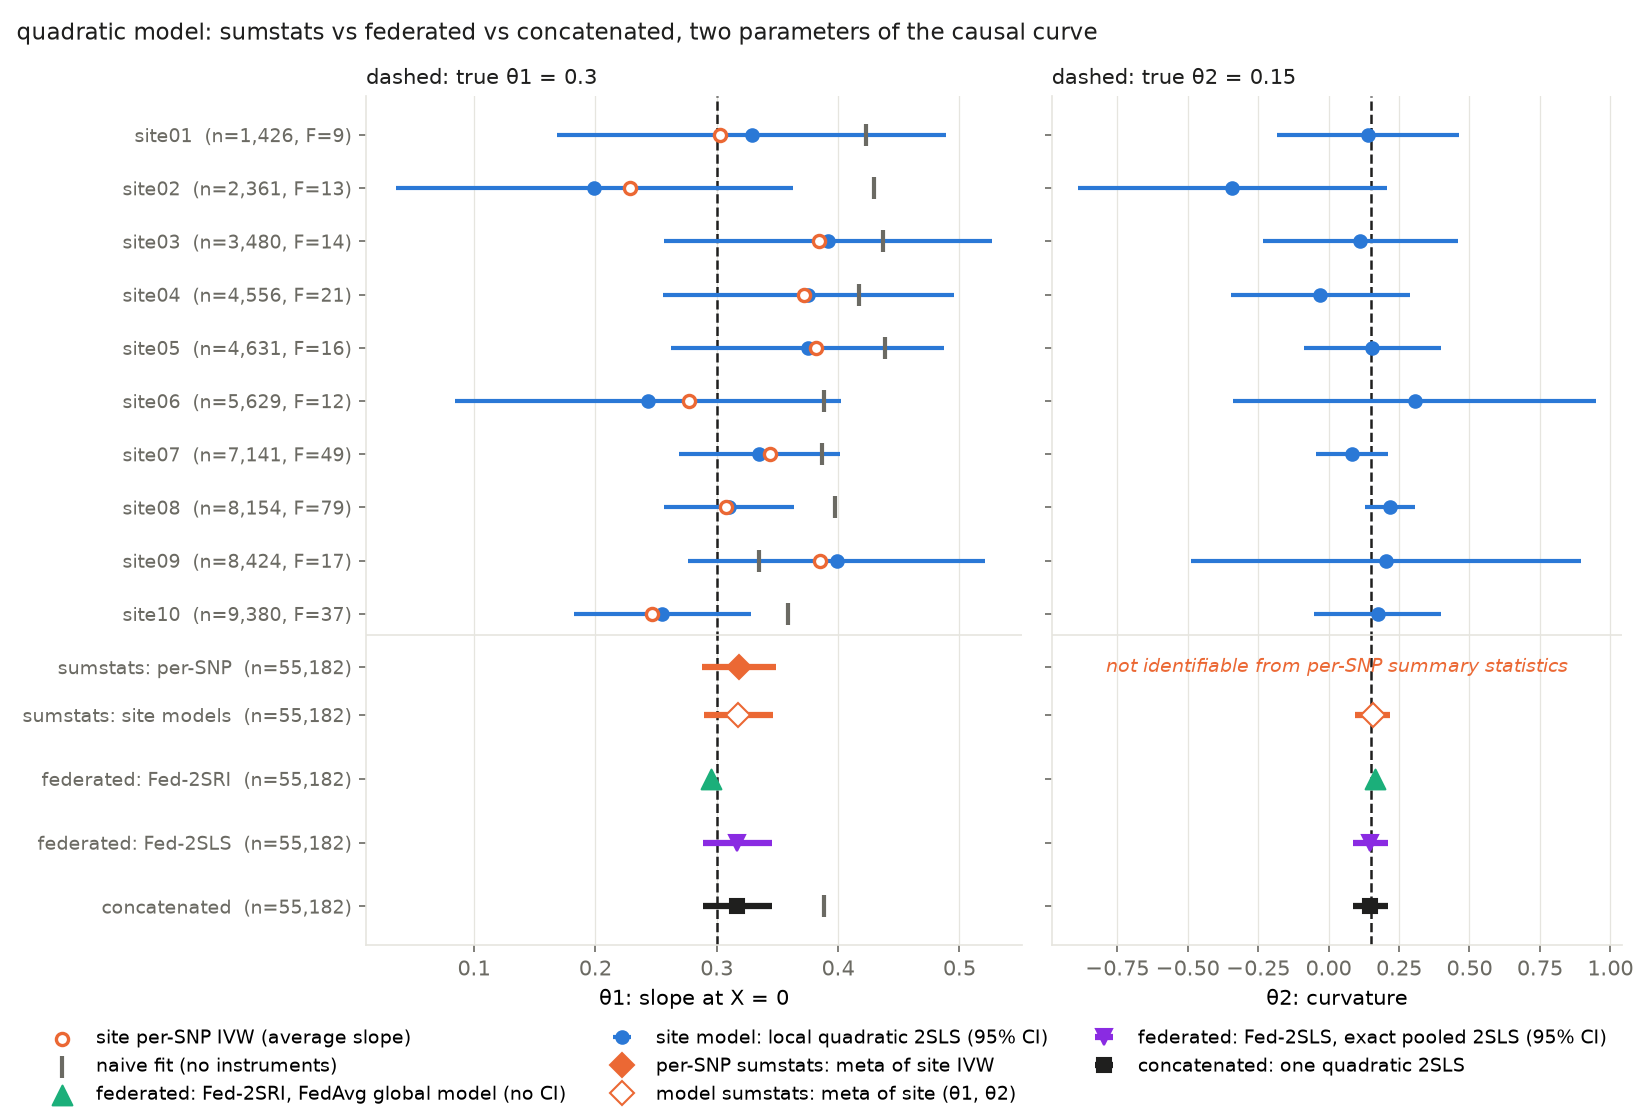
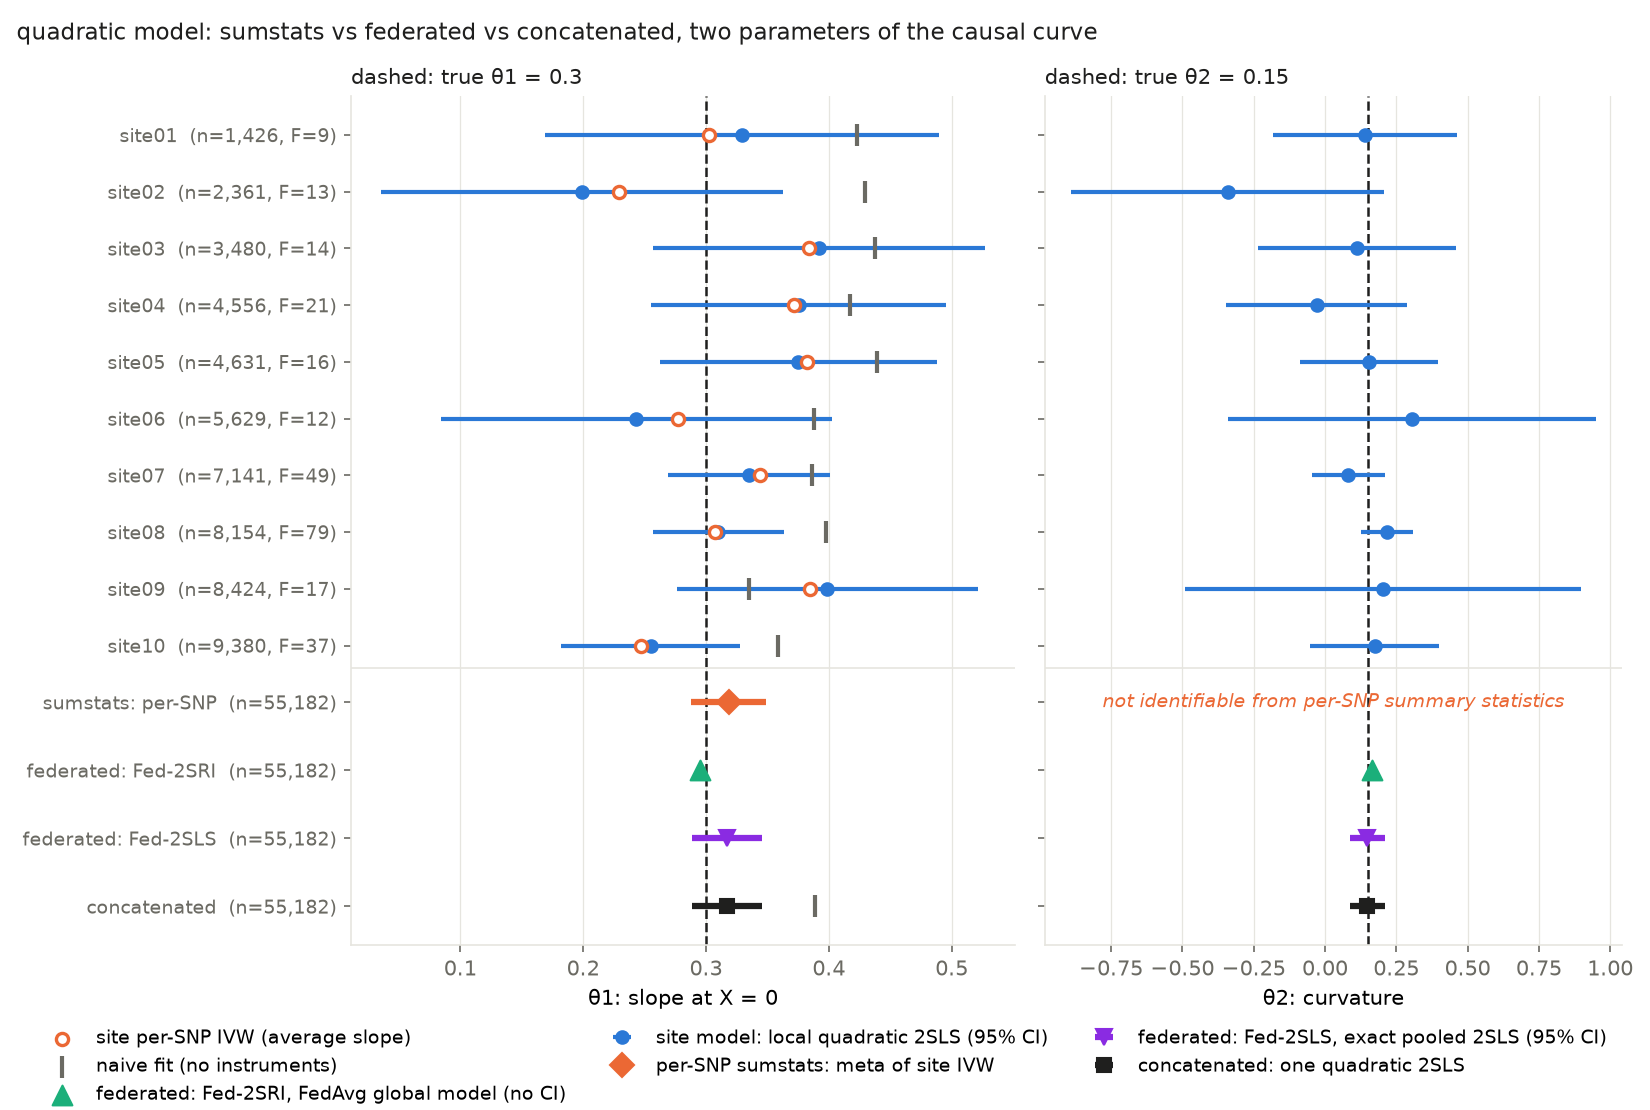
Drop the site-model meta-analysis row; per-SNP IVW is the one summary-statistics route
Fed-2SLS gives the pooled quadratic answer exactly, so meta-analysing the
sites' own quadratic fits was redundant. The curved forest keeps each
site's local quadratic fit as a per-site row; the family rows are
per-SNP sumstats, Fed-2SRI, Fed-2SLS and concatenated. The dashboard
drops the model-meta row and parser; docs updated.

Claude-Session: https://claude.ai/code/session_015NyuikE1DxS4koegP9jiqJ

diff --git a/data/scripts/federated_summary_mr.py b/data/scripts/federated_summary_mr.py
@@ -105,14 +105,6 @@ def quadratic_2sls(sites) -> tuple[np.ndarray, np.ndarray]:
     return coef[:2], cov[:2, :2]
 
 
-def multivariate_meta(thetas, covs) -> tuple[np.ndarray, np.ndarray]:
-    """Inverse-variance meta-analysis of vector estimates with their covariances."""
-    W = [np.linalg.inv(c) for c in covs]
-    cov = np.linalg.inv(sum(W))
-    theta = cov @ sum(w @ t for w, t in zip(W, thetas))
-    return theta, cov
-
-
 def pooled_2sls(sites: list[tuple[np.ndarray, np.ndarray, np.ndarray]]) -> tuple[float, float, float]:
     """Concatenate all sites and fit one 2SLS with site-specific first stages and site intercepts."""
     xhat, X, Y, site_idx = _first_stage(sites)
@@ -154,17 +146,14 @@ def site_summary(csv: Path, sumstats_dir: Path, survival: bool, curved: bool = F
     row = {"site": site, "n": df.height, "avg_slope": truth["avg_slope"],
            "ivw": est, "ivw_se": se, "naive_ols": naive, "mean_F": f_stat}
     if curved:
-        # site-level model summary: the site fits the quadratic 2SLS on its own data and shares
-        # the two coefficients and their covariance, never individual rows
+        # the site's own quadratic 2SLS, shown per site for heterogeneity (not meta-analysed)
         th, cov = quadratic_2sls([site_summary.raw[-1]])
-        site_summary.models.append((th, cov))
         row.update({"q_theta1": float(th[0]), "q_theta1_se": float(np.sqrt(cov[0, 0])),
                     "q_theta2": float(th[1]), "q_theta2_se": float(np.sqrt(cov[1, 1]))})
     return row
 
 
 site_summary.raw = []
-site_summary.models = []
 
 
 def _family_rows(ax, y_sites, rows_y, res, n_all, families) -> None:
@@ -286,12 +275,12 @@ def _style(ax) -> None:
     ax.set_axisbelow(True)
 
 
-def forest_curved(res, meta, meta_se, model_meta, model_cov, pooled_q, pooled_cov, pooled_naive, fl,
+def forest_curved(res, meta, meta_se, pooled_q, pooled_cov, pooled_naive, fl,
                   avg_slope_target, shape, theta1, theta2, out: Path, fed2sls=None) -> None:
-    """Two columns, one per parameter of the quadratic basis. Rows: sites, then the three families."""
+    """Two columns, one per parameter of the quadratic basis. Rows: sites, then the families."""
     sites = res["site"].to_list()
     y = np.arange(len(sites))[::-1]
-    rows_y = {"sumstats": -1, "models": -1.9, "federated": -3.1, "fed2sls": -4.3, "pooled": -5.5}
+    rows_y = {"sumstats": -1, "federated": -2.2, "fed2sls": -3.4, "pooled": -4.6}
     fig, axes = plt.subplots(1, 2, figsize=(11, 7.4), dpi=150, sharey=True,
                              gridspec_kw={"width_ratios": [1.15, 1]})
     ax1, ax2 = axes
@@ -308,9 +297,6 @@ def forest_curved(res, meta, meta_se, model_meta, model_cov, pooled_q, pooled_co
     ax1.scatter(res["naive_ols"], y, marker="|", s=120, color=MUTED, linewidths=2, zorder=3, label="naive fit (no instruments)")
     ax1.errorbar([meta], [rows_y["sumstats"]], xerr=[1.96 * meta_se], fmt="D", color=SUMSTATS_COLOR, ms=8,
                  ecolor=SUMSTATS_COLOR, elinewidth=3, label="per-SNP sumstats: meta of site IVW")
-    ax1.errorbar([model_meta[0]], [rows_y["models"]], xerr=[1.96 * np.sqrt(model_cov[0, 0])], fmt="D",
-                 mfc="white", color=SUMSTATS_COLOR, ms=8, ecolor=SUMSTATS_COLOR, elinewidth=3,
-                 label="model sumstats: meta of site (θ1, θ2)")
     if "2sri" in fl:
         ax1.scatter([fl["2sri"][0]], [rows_y["federated"]], marker="^", s=90, color=FED_COLOR, zorder=4,
                     label="federated: Fed-2SRI, FedAvg global model (no CI)")
@@ -344,8 +330,6 @@ def forest_curved(res, meta, meta_se, model_meta, model_cov, pooled_q, pooled_co
                       loc="left", fontsize=10, color=INK)
     ax2.errorbar(res["q_theta2"], y, xerr=1.96 * res["q_theta2_se"], fmt="o", color=SITE_COLOR, ms=6,
                  ecolor=SITE_COLOR, elinewidth=2)
-    ax2.errorbar([model_meta[1]], [rows_y["models"]], xerr=[1.96 * np.sqrt(model_cov[1, 1])], fmt="D",
-                 mfc="white", color=SUMSTATS_COLOR, ms=8, ecolor=SUMSTATS_COLOR, elinewidth=3)
     ax2.errorbar([pooled_q[1]], [rows_y["pooled"]], xerr=[1.96 * np.sqrt(pooled_cov[1, 1])], fmt="s", color=INK,
                  ms=7, ecolor=INK, elinewidth=3)
     ax2.text(0.5, rows_y["sumstats"], "not identifiable from per-SNP summary statistics", transform=ax2.get_yaxis_transform(),
@@ -355,7 +339,7 @@ def forest_curved(res, meta, meta_se, model_meta, model_cov, pooled_q, pooled_co
     for ax in axes:
         ax.axhline(-0.4, color=GRID, linewidth=0.8)
         _style(ax)
-    _family_rows(ax1, y, rows_y, res, n_all, {"sumstats": "sumstats: per-SNP", "models": "sumstats: site models",
+    _family_rows(ax1, y, rows_y, res, n_all, {"sumstats": "sumstats: per-SNP",
                                               "federated": "federated: Fed-2SRI", "fed2sls": "federated: Fed-2SLS",
                                               "pooled": "concatenated"})
     fig.suptitle(f"{shape} model: sumstats vs federated vs concatenated, two parameters of the causal curve",
@@ -381,7 +365,7 @@ def main() -> None:
     manifest = json.loads((a.sites / "manifest.json").read_text())
     sumstats_dir = a.sites / "sumstats"
     sumstats_dir.mkdir(exist_ok=True)
-    site_summary.raw, site_summary.models = [], []
+    site_summary.raw = []
     curved = a.shape in ("quadratic", "threshold")
     rows = [site_summary(csv, sumstats_dir, a.shape == "cox", curved) for csv in sorted(a.sites.glob("site*.csv"))]
     res = pl.DataFrame(rows)
@@ -416,13 +400,10 @@ def main() -> None:
     if "2sri" not in fl:
         print(f"no NVFlare 2SRI run at {a.fl_results / '2sri' / a.sites.name}")
     if curved:
-        model_meta, model_cov = multivariate_meta(*zip(*site_summary.models))
         pooled_q, pooled_cov = quadratic_2sls(site_summary.raw)
-        forest_curved(res, meta, meta_se, model_meta, model_cov, pooled_q, pooled_cov, pooled_naive, fl,
+        forest_curved(res, meta, meta_se, pooled_q, pooled_cov, pooled_naive, fl,
                       target, a.shape, manifest["theta1"], manifest["theta2"], png_out, fed2sls)
-        mse = np.sqrt(np.diag(model_cov)); pse = np.sqrt(np.diag(pooled_cov))
-        print(f"model sumstats (meta of site quadratic fits): theta1 {model_meta[0]:.3f} ({mse[0]:.3f})  "
-              f"theta2 {model_meta[1]:.3f} ({mse[1]:.3f})")
+        pse = np.sqrt(np.diag(pooled_cov))
         print(f"concatenated quadratic 2SLS:                  theta1 {pooled_q[0]:.3f} ({pse[0]:.3f})  "
               f"theta2 {pooled_q[1]:.3f} ({pse[1]:.3f})")
     else:

diff --git a/dashboard/app.py b/dashboard/app.py
@@ -282,14 +282,10 @@ def headline_metrics(summary: dict) -> None:
                                "across sites", "neutral"))
     stat_row(cards)
 
-    if {"model_sumstats", "pooled_quadratic"} & summary.keys():
-        rows = []
-        for key, name in (("model_sumstats", "Summary statistics (meta of site quadratic fits)"),
-                          ("pooled_quadratic", "Concatenated quadratic 2SLS")):
-            if key in summary:
-                t1, t1se, t2, t2se = summary[key]
-                rows.append({"estimator": name, "θ1": t1, "θ1 se": t1se, "θ2": t2, "θ2 se": t2se})
-        st.dataframe(pl.DataFrame(rows), width="stretch", hide_index=True)
+    if "pooled_quadratic" in summary:
+        t1, t1se, t2, t2se = summary["pooled_quadratic"]
+        st.dataframe(pl.DataFrame([{"estimator": "Concatenated quadratic 2SLS", "θ1": t1, "θ1 se": t1se,
+                                    "θ2": t2, "θ2 se": t2se}]), width="stretch", hide_index=True)
 
     if "target_label" in summary:
         st.caption(f"Target: {summary['target_label']}")
@@ -315,9 +311,6 @@ def comparison_table(summary: dict, federated: dict, params: dict) -> pl.DataFra
         est, se = summary["meta_ivw"]
         rows.append(row("Summary-stat IVW meta", "per-SNP summary statistics", est,
                         None, se))
-    if curved and "model_sumstats" in summary:
-        t1, se1, t2, _ = summary["model_sumstats"]
-        rows.append(row("Summary-stat model meta", "per-site quadratic fits", t1, t2, se1))
     if curved and "pooled_quadratic" in summary:
         t1, se1, t2, _ = summary["pooled_quadratic"]
         rows.append(row("Concatenated quadratic 2SLS", "pooled individual rows", t1, t2, se1))

diff --git a/dashboard/runner.py b/dashboard/runner.py
@@ -435,7 +435,6 @@ _PATTERNS = {
     # `federated Fed-2SLS: theta1  se1 [ theta2  se2]   (exact, with CI)`; the pair is absent for the linear basis
     "fed2sls": rf"federated Fed-2SLS:\s+{_NUM}\s+{_NUM}(?:\s+{_NUM}\s+{_NUM})?\s+\(exact",
     "heterogeneity_q": rf"heterogeneity Q\s+{_NUM}",
-    "model_sumstats": rf"model sumstats[^:]*:\s*theta1\s+{_NUM}\s+\({_NUM}\)\s+theta2\s+{_NUM}\s+\({_NUM}\)",
     "pooled_quadratic": rf"concatenated quadratic 2SLS:\s+theta1\s+{_NUM}\s+\({_NUM}\)\s+theta2\s+{_NUM}\s+\({_NUM}\)",
 }
 

diff --git a/data/docs/federated-summary-mr.md b/data/docs/federated-summary-mr.md
@@ -108,7 +108,7 @@ site rows, coloured by family:
 
 | family | row(s) | what leaves each site | estimate |
 |---|---|---|---|
-| sumstats (orange) | `sumstats` (per-SNP), and `sumstats: site models` for curved shapes | per-SNP GWAS effects; or a fitted model's coefficients and covariance | inverse-variance meta-analysis, with CI |
+| sumstats (orange) | `sumstats: per-SNP` | per-SNP GWAS effects | inverse-variance meta-analysis, with CI |
 | federated: Fed-2SRI (green) | `federated: Fed-2SRI` | model weights each round, via NVFlare FedAvg | the last-round global 2SRI model from `../federated_learning/results/2sri/<dataset>/curves.csv`, summarised into the plot's parameters by least squares on the curve over -2 <= X <= 2; no analytic CI |
 | federated: Fed-2SLS (violet) | `federated: Fed-2SLS` | centred cross-product matrices, one round (plus one for the robust SE) | exact federated 2SLS from `results/fed2sls.<dataset>.csv` (`scripts/federated_exact_mr.py`), identical to the concatenated row, with CI; see `federated-exact-mr.md` |
 | concatenated (black) | `concatenated` | individual rows | one 2SLS (or stratified 2SPS Cox), with CI |
@@ -147,33 +147,24 @@ not replace the Fed-2SRI curve; the two rows answer different questions.
 ## Curved models: two parameters
 
 For `quadratic` and `threshold` the forest plot has two columns, `theta1`
-(slope at X = 0) and `theta2` (curvature in a quadratic basis), and a third
-combined row. The three federation levels it compares:
+(slope at X = 0) and `theta2` (curvature in a quadratic basis). The
+federation levels it compares:
 
 | level | what leaves each site | can estimate |
 |---|---|---|
 | per-SNP sumstats | per-SNP `beta_x`, `beta_y` and standard errors | average slope only; `theta2` is not identifiable |
-| model sumstats | the site's own quadratic 2SLS: two coefficients and their 2x2 covariance | both, via a multivariate inverse-variance meta-analysis |
+| federated: Fed-2SRI | model weights each round | both, read off the fitted curve, no CI |
+| federated: Fed-2SLS | centred cross-product matrices | both, exactly the concatenated fit, with CI |
 | concatenated | individual rows | both, in one quadratic 2SLS with site intercepts |
 
-Per-site rows show the local quadratic fit (filled, both columns) and the
-per-SNP IVW slope (hollow, first column only).
-
-| set | route | θ1 | θ2 |
-|---|---|---|---|
-| quadratic (θ1 0.30, θ2 0.15) | model sumstats | 0.318 (0.015) | 0.156 (0.031) |
-| | concatenated | 0.317 (0.014) | 0.149 (0.031) |
-| ushape (θ1 0, θ2 0.15) | model sumstats | 0.018 (0.015) | 0.156 (0.031) |
-| | concatenated | 0.017 (0.014) | 0.149 (0.031) |
-| threshold (kink at 0.5) | model sumstats | 0.225 (0.015) | -0.045 (0.031) |
-| | concatenated | 0.225 (0.014) | -0.053 (0.031) |
-
-Sharing fitted model parameters instead of GWAS rows recovers the curve with
-the same precision as pooling the data: `theta2` standard errors are equal to
-three decimals and the estimates differ by 0.007. Per-site `theta2` intervals
-are wide, since the squared prediction is a weak instrument at F around 10,
-but the meta-analysis lands on the truth. Per-SNP summary statistics cannot
-produce `theta2` at all, which the plot marks in the second column.
+Per-site rows show the site's own local quadratic 2SLS (filled, both
+columns) and its per-SNP IVW slope (hollow, first column only). Per-site
+`theta2` intervals are wide, since the squared prediction is a weak
+instrument at F around 10. Per-SNP summary statistics cannot produce
+`theta2` at all, which the plot marks in the second column; the federated
+rows recover it. (An earlier version also meta-analysed the sites' own
+quadratic fits as a "model sumstats" row; it was dropped because Fed-2SLS
+gives that pooled answer exactly.)
 
 ## Summary statistics versus concatenated
 

diff --git a/data/README.md b/data/README.md
@@ -24,7 +24,7 @@ the parameter files used to generate benchmark datasets.
 | `scripts/simulate_binary.py` | Same exposure model with a 0/1 outcome from a liability or logistic link at a target prevalence |
 | `scripts/simulators.py`, `scripts/simulate_federated.py` | Registry of outcome simulators and the generic ten-site orchestrator (`--outcome continuous|binary|survival`) |
 | `scripts/check_survival.py` | Naive, 2SPS, 2SRI and oracle Cox fits against the true log hazard ratio |
-| `scripts/federated_summary_mr.py` | Per model: GWAS summary stats per site, IVW MR per site, meta-analysis vs the NVFlare federated model vs one pooled fit on concatenated data, forest plot; for curved models a two-column plot adding site-level model summaries |
+| `scripts/federated_summary_mr.py` | Per model: GWAS summary stats per site, IVW MR per site, meta-analysis vs the NVFlare federated model vs one pooled fit on concatenated data, forest plot; for curved models a two-column plot with each site's own quadratic fit |
 | `scripts/federated_nonlinear_mr.py` | Quadratic 2SLS on concatenated sites vs the sumstats line; dose-response plot |
 | `scripts/rare_events_sweep.py` | Seed sweep of the rare-event Cox setting: bias, RMSE and coverage for both routes |
 | `scripts/simulate_federated_sites.py` | Ten sites sharing one causal curve (`--shape`), per-site heritability/confounding sampled from a distribution; `--shared-snps`, `--maf-shift`, `--theta-sd`, `--pleiotropy-*` for heterogeneity scenarios |

diff --git a/data/docs/federated-nonlinear-mr.md b/data/docs/federated-nonlinear-mr.md
@@ -30,12 +30,9 @@ through the origin. `theta2` is not identifiable from these summaries.
 | quadratic | θ1 = 0.30, θ2 = 0.15 | θ1 0.317 (0.014), θ2 0.149 (0.031) | slope 0.318 (0.016) |
 | threshold | slope 0.30 below 0.5, flat above | θ1 0.225 (0.014), θ2 -0.053 (0.031) | slope 0.224 (0.015) |
 
-A middle route, each site fitting the quadratic 2SLS locally and sharing its
-two coefficients with their covariance, matches the concatenated fit: see the
-"model sumstats" row of `results/sumstats.quadratic.png` and the curved-model
-section of `federated-summary-mr.md`. Fed-2SLS (`federated-exact-mr.md`) goes
-one step further and reproduces the concatenated fit exactly from per-site
-cross-product matrices.
+Fed-2SLS (`federated-exact-mr.md`) reproduces the concatenated fit exactly
+from per-site cross-product matrices, so the curve is recoverable without
+pooling rows; see the curved-model section of `federated-summary-mr.md`.
 
 Standard errors in parentheses. Plots: `results/nonlinear.quadratic.png`,
 `results/nonlinear.threshold.png`. Each shows the true curve, the pooled fit
